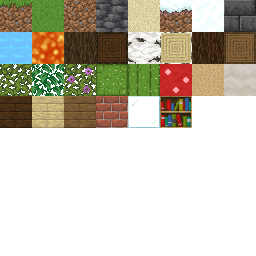
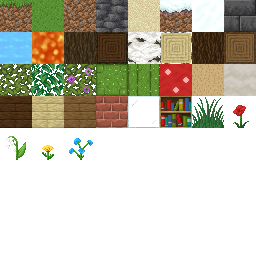
plantas

diff --git a/ProjetoTransversal/src/World/Block/BlockDatabase.cpp b/ProjetoTransversal/src/World/Block/BlockDatabase.cpp
@@ -8,31 +8,36 @@ BlockDatabase::BlockDatabase()
 {
 	//cria um bloco para cada Id de bloco
 	//						 nome			, id					, solido, translucido			, index da textura no atlas
-	m_blockData.emplace_back("Air"			, BlockId::Air			, false	, Transparency::Full	, 0);
-	m_blockData.emplace_back("Grass"		, BlockId::Grass		, true	, Transparency::Opaque	, 1, 0, 2);
-	m_blockData.emplace_back("Dirt"			, BlockId::Dirt			, true	, Transparency::Opaque	, 2);
-	m_blockData.emplace_back("Stone"		, BlockId::Stone		, true	, Transparency::Opaque	, 3);
-	m_blockData.emplace_back("Sand"			, BlockId::Sand			, true	, Transparency::Opaque	, 4);
-	m_blockData.emplace_back("SnowGrass"	, BlockId::SnowGrass	, true	, Transparency::Opaque	, 6, 5, 2);
-	m_blockData.emplace_back("Snow"			, BlockId::Snow			, true	, Transparency::Opaque	, 6);
-	m_blockData.emplace_back("StoneBrick"	, BlockId::StoneBrick	, true	, Transparency::Opaque	, 7);
-	m_blockData.emplace_back("Water"		, BlockId::Water		, false	, Transparency::Full	, 8);
-	m_blockData.emplace_back("Lava"			, BlockId::Lava			, false	, Transparency::Full	, 9);
-	m_blockData.emplace_back("DarkWood"		, BlockId::DarkWood		, true	, Transparency::Opaque	, 11, 10, 11);
-	m_blockData.emplace_back("LightWood"	, BlockId::LightWood	, true	, Transparency::Opaque	, 13, 12, 13);
-	m_blockData.emplace_back("PineWood"		, BlockId::PineWood		, true	, Transparency::Opaque	, 15, 14, 15);
-	m_blockData.emplace_back("Leaf"			, BlockId::Leaf			, true	, Transparency::Half	, 16);
-	m_blockData.emplace_back("LightLeaf"	, BlockId::LightLeaf	, true	, Transparency::Half	, 17);
-	m_blockData.emplace_back("PineLeaf"		, BlockId::PineLeaf		, true	, Transparency::Half	, 18);
-	m_blockData.emplace_back("Cactus"		, BlockId::Cactus		, true	, Transparency::Half	, 19, 20, 19);
-	m_blockData.emplace_back("Mushroom"		, BlockId::Mushroom		, true	, Transparency::Opaque	, 21);
-	m_blockData.emplace_back("MushroomStalk", BlockId::MushroomStalk, true	, Transparency::Opaque	, 23);
-	m_blockData.emplace_back("DarkPlanks"	, BlockId::DarkPlanks	, true	, Transparency::Opaque	, 24);
-	m_blockData.emplace_back("LightPlanks"	, BlockId::LightPlanks	, true	, Transparency::Opaque	, 25);
-	m_blockData.emplace_back("PinePlanks"	, BlockId::PinePlanks	, true	, Transparency::Opaque	, 26);
-	m_blockData.emplace_back("Bricks"		, BlockId::Bricks		, true	, Transparency::Opaque	, 27);
-	m_blockData.emplace_back("Glass"		, BlockId::Glass		, true	, Transparency::Full	, 28);
-	m_blockData.emplace_back("BookShelf"	, BlockId::BookShelf	, true	, Transparency::Opaque	, 26, 29, 26);
+	m_blockData.emplace_back("Air"			, BlockId::Air			, false, Transparency::Full  , false, 0);
+	m_blockData.emplace_back("GrassBlock"	, BlockId::GrassBlock	, true , Transparency::Opaque, false, 1, 0, 2);
+	m_blockData.emplace_back("Dirt"			, BlockId::Dirt			, true , Transparency::Opaque, false, 2);
+	m_blockData.emplace_back("Stone"		, BlockId::Stone		, true , Transparency::Opaque, false, 3);
+	m_blockData.emplace_back("Sand"			, BlockId::Sand			, true , Transparency::Opaque, false, 4);
+	m_blockData.emplace_back("SnowGrass"	, BlockId::SnowGrass	, true , Transparency::Opaque, false, 6, 5, 2);
+	m_blockData.emplace_back("Snow"			, BlockId::Snow			, true , Transparency::Opaque, false, 6);
+	m_blockData.emplace_back("StoneBrick"	, BlockId::StoneBrick	, true , Transparency::Opaque, false, 7);
+	m_blockData.emplace_back("Water"		, BlockId::Water		, false, Transparency::Full  , false, 8);
+	m_blockData.emplace_back("Lava"			, BlockId::Lava			, false, Transparency::Full  , false, 9);
+	m_blockData.emplace_back("DarkWood"		, BlockId::DarkWood		, true , Transparency::Opaque, false, 11, 10, 11);
+	m_blockData.emplace_back("LightWood"	, BlockId::LightWood	, true , Transparency::Opaque, false, 13, 12, 13);
+	m_blockData.emplace_back("PineWood"		, BlockId::PineWood		, true , Transparency::Opaque, false, 15, 14, 15);
+	m_blockData.emplace_back("Leaf"			, BlockId::Leaf			, true , Transparency::Half  , false, 16);
+	m_blockData.emplace_back("LightLeaf"	, BlockId::LightLeaf	, true , Transparency::Half  , false, 17);
+	m_blockData.emplace_back("PineLeaf"		, BlockId::PineLeaf		, true , Transparency::Half  , false, 18);
+	m_blockData.emplace_back("Cactus"		, BlockId::Cactus		, true , Transparency::Half  , false, 19, 20, 19);
+	m_blockData.emplace_back("Mushroom"		, BlockId::Mushroom		, true , Transparency::Opaque, false, 21);
+	m_blockData.emplace_back("MushroomStalk", BlockId::MushroomStalk, true , Transparency::Opaque, false, 23);
+	m_blockData.emplace_back("DarkPlanks"	, BlockId::DarkPlanks	, true , Transparency::Opaque, false, 24);
+	m_blockData.emplace_back("LightPlanks"	, BlockId::LightPlanks	, true , Transparency::Opaque, false, 25);
+	m_blockData.emplace_back("PinePlanks"	, BlockId::PinePlanks	, true , Transparency::Opaque, false, 26);
+	m_blockData.emplace_back("Bricks"		, BlockId::Bricks		, true , Transparency::Opaque, false, 27);
+	m_blockData.emplace_back("Glass"		, BlockId::Glass		, true , Transparency::Full  , false, 28);
+	m_blockData.emplace_back("BookShelf"	, BlockId::BookShelf	, true , Transparency::Half  , false, 26, 29, 26);
+	m_blockData.emplace_back("Grass"		, BlockId::Grass		, false, Transparency::Half  , true , 30);
+	m_blockData.emplace_back("Poppy"		, BlockId::Poppy		, false, Transparency::Half  , true , 31);
+	m_blockData.emplace_back("Lily"			, BlockId::Lily			, false, Transparency::Half  , true , 32);
+	m_blockData.emplace_back("Dandelion"	, BlockId::Dandelion	, false, Transparency::Half  , true , 33);
+	m_blockData.emplace_back("BlueOrchid"	, BlockId::BlueOrchid	, false, Transparency::Half  , true , 34);
 }
 
 const Block& BlockDatabase::GetBlockInfo(const BlockId& blockId) const

diff --git a/ProjetoTransversal/src/World/Block/Block.cpp b/ProjetoTransversal/src/World/Block/Block.cpp
@@ -6,16 +6,16 @@ namespace
 	constexpr float TEXTURE_STEP = 1.0 / TEXTURE_COUNT;
 }
 
-Block::Block(const char* name, const BlockId& blockId, const bool isSolid, Transparency isTransparent,
+Block::Block(const char* name, const BlockId& blockId, const bool isSolid, Transparency isTransparent, const bool isVegetation,
 			 const glm::vec2& topTextureCoords, const glm::vec2& sideTextureCoords, const glm::vec2& bottomTextureCoords)
-	: m_name(name), m_blockId(blockId), m_isSolid(isSolid), m_transparency(isTransparent)
+	: m_name(name), m_blockId(blockId), m_isSolid(isSolid), m_transparency(isTransparent), m_isVegetation(isVegetation)
 {
 	Generatetextures(topTextureCoords, sideTextureCoords, bottomTextureCoords);
 }
 
-Block::Block(const char* name, const BlockId& blockId, const bool isSolid, Transparency isTransparent,
+Block::Block(const char* name, const BlockId& blockId, const bool isSolid, Transparency isTransparent, const bool isVegetation,
 			 const unsigned int topTextureIndex, const unsigned int sideTextureIndex, const unsigned int bottomTextureIndex)
-	: m_name(name), m_blockId(blockId), m_isSolid(isSolid), m_transparency(isTransparent)
+	: m_name(name), m_blockId(blockId), m_isSolid(isSolid), m_transparency(isTransparent), m_isVegetation(isVegetation)
 {
 	glm::vec2 topTextureCoords = IndexToTextureCoords(topTextureIndex);
 	glm::vec2 sideTextureCoords = IndexToTextureCoords(sideTextureIndex);
@@ -24,14 +24,14 @@ Block::Block(const char* name, const BlockId& blockId, const bool isSolid, Trans
 	Generatetextures(topTextureCoords, sideTextureCoords, bottomTextureCoords);
 }
 
-Block::Block(const char* name, const BlockId& blockId, const bool isSolid, Transparency isTransparent, const glm::vec2& textureCoords)
-	: m_name(name), m_blockId(blockId), m_isSolid(isSolid), m_transparency(isTransparent)
+Block::Block(const char* name, const BlockId& blockId, const bool isSolid, Transparency isTransparent, const bool isVegetation, const glm::vec2& textureCoords)
+	: m_name(name), m_blockId(blockId), m_isSolid(isSolid), m_transparency(isTransparent), m_isVegetation(isVegetation)
 {
 	Generatetextures(textureCoords, textureCoords, textureCoords);
 }
 
-Block::Block(const char* name, const BlockId& blockId, const bool isSolid, Transparency isTransparent, const unsigned int textureIndex)
-	: m_name(name), m_blockId(blockId), m_isSolid(isSolid), m_transparency(isTransparent)
+Block::Block(const char* name, const BlockId& blockId, const bool isSolid, Transparency isTransparent, const bool isVegetation, const unsigned int textureIndex)
+	: m_name(name), m_blockId(blockId), m_isSolid(isSolid), m_transparency(isTransparent), m_isVegetation(isVegetation)
 {
 	glm::vec2 textureCoords = IndexToTextureCoords(textureIndex);
 

diff --git a/ProjetoTransversal/src/World/Block/Block.h b/ProjetoTransversal/src/World/Block/Block.h
@@ -8,7 +8,7 @@ typedef float GLfloat;
 enum class BlockId : uint8_t
 {
 	Air = 0,
-	Grass,
+	GrassBlock,
 	Dirt,
 	Stone,
 	Sand,
@@ -32,6 +32,11 @@ enum class BlockId : uint8_t
 	Bricks,
 	Glass,
 	BookShelf,
+	Grass,
+	Poppy,
+	Lily,
+	Dandelion,
+	BlueOrchid,
 
 	blockCount
 };
@@ -46,19 +51,22 @@ enum class Transparency
 class Block
 {
 public:
-	Block(const char* name, const BlockId& blockId, const bool isSolid, Transparency isTransparent,
-		  const glm::vec2& topTextureCoords, const glm::vec2& sideTextureCoords, const glm::vec2& bottomTextureCoords);
-	Block(const char* name, const BlockId& blockId, const bool isSolid, Transparency isTransparent,
-		  const unsigned int topTextureIndex, const unsigned int sideTextureIndex, const unsigned int bottomTextureIndex);
+	Block(const char* name, const BlockId& blockId, const bool isSolid, Transparency isTransparent, const bool isVegetation,
+		const glm::vec2& topTextureCoords, const glm::vec2& sideTextureCoords, const glm::vec2& bottomTextureCoords);
+	Block(const char* name, const BlockId& blockId, const bool isSolid, Transparency isTransparent, const bool isVegetation,
+		const unsigned int topTextureIndex, const unsigned int sideTextureIndex, const unsigned int bottomTextureIndex);
 
-	Block(const char* name, const BlockId& blockId, const bool isSolid, Transparency isTransparent, const glm::vec2& textureCoords);
-	Block(const char* name, const BlockId& blockId, const bool isSolid, Transparency isTransparent, const unsigned int textureIndex);
+	Block(const char* name, const BlockId& blockId, const bool isSolid, Transparency isTransparent, const bool isVegetation, 
+		const glm::vec2& textureCoords);
+	Block(const char* name, const BlockId& blockId, const bool isSolid, Transparency isTransparent, const bool isVegetation, 
+		const unsigned int textureIndex);
 
-	const bool operator = (const Block& other) const
+	const bool operator == (const Block& other) const
 	{
 		return this->m_blockId == other.m_blockId;
 	}
 	const bool IsSolid() const { return m_isSolid; };
+	const bool IsVegetation() const { return m_isVegetation; };
 
 	Transparency IsTranslucent() const { return m_transparency; };
 
@@ -80,6 +88,6 @@ private:
 	const char* m_name;
 	const BlockId m_blockId;
 	const bool m_isSolid;
+	const bool m_isVegetation;
 	Transparency m_transparency;
 };
-

diff --git a/ProjetoTransversal/src/World/Chunk/ChunkMeshBuilder.cpp b/ProjetoTransversal/src/World/Chunk/ChunkMeshBuilder.cpp
@@ -100,14 +100,21 @@ void ChunkMeshBuilder::TryToAddBlock(const BlockId& blockId, const glm::ivec3& b
 {
     const Block& block = BlockDatabase::Get().GetBlockInfo(blockId);
 
-    TryToAddFace(blockId, Face::top, block.GetTopTexture(), blockPosition, adjacentBlocks.up);
-    TryToAddFace(blockId, Face::bottom, block.GetBottomTexture(), blockPosition, adjacentBlocks.down);
+    if (block.IsVegetation())
+    {
+        m_chunkMesh->AddVegetationBlock(block.GetSideTexture(), m_chunk->GetLocation(), blockPosition);
+    }
+    else
+    {
+        TryToAddFace(blockId, Face::top, block.GetTopTexture(), blockPosition, adjacentBlocks.up);
+        TryToAddFace(blockId, Face::bottom, block.GetBottomTexture(), blockPosition, adjacentBlocks.down);
 
-    TryToAddFace(blockId, Face::left, block.GetSideTexture(), blockPosition, adjacentBlocks.left);
-    TryToAddFace(blockId, Face::right, block.GetSideTexture(), blockPosition, adjacentBlocks.right);
+        TryToAddFace(blockId, Face::left, block.GetSideTexture(), blockPosition, adjacentBlocks.left);
+        TryToAddFace(blockId, Face::right, block.GetSideTexture(), blockPosition, adjacentBlocks.right);
 
-    TryToAddFace(blockId, Face::front, block.GetSideTexture(), blockPosition, adjacentBlocks.front);
-    TryToAddFace(blockId, Face::back, block.GetSideTexture(), blockPosition, adjacentBlocks.back);
+        TryToAddFace(blockId, Face::front, block.GetSideTexture(), blockPosition, adjacentBlocks.front);
+        TryToAddFace(blockId, Face::back, block.GetSideTexture(), blockPosition, adjacentBlocks.back);
+    }
 }
 
 void ChunkMeshBuilder::TryToAddFace(const BlockId& blockId, const std::vector<GLfloat>& blockFace, const std::vector<GLfloat>& textureCoords,

diff --git a/ProjetoTransversal/src/World/Chunk/ChunkMesh.cpp b/ProjetoTransversal/src/World/Chunk/ChunkMesh.cpp
@@ -39,6 +39,60 @@ void ChunkMesh::AddBlockFace(const std::vector<GLfloat>& blockFace,
 	m_indicesCount += 4;
 }
 
+void ChunkMesh::AddVegetationBlock(const std::vector<GLfloat>& textureCoords, const glm::ivec3& chunkPosition, const glm::ivec3& blockPosition)
+{
+	const std::vector<GLfloat>& blockFace =
+	{
+		0, 0, 1,
+		1, 0, 0,
+		1, 1, 0,
+		0, 1, 1, 
+	
+		1, 0, 1,
+		0, 0, 0,
+		0, 1, 0,
+		1, 1, 1,
+		
+		1, 0, 0,
+		0, 0, 1,
+		0, 1, 1, 
+		1, 1, 0,
+	
+		0, 0, 0,
+		1, 0, 1,
+		1, 1, 1,
+		0, 1, 0,
+	};
+	//Vertex Positions
+	for (int i = 0, index = 0; i < 16; i++)
+	{
+		this->vertexPositions.push_back(blockFace[index] + chunkPosition.x * Options::chunkSize + blockPosition.x);
+		index++;
+		this->vertexPositions.push_back(blockFace[index] + chunkPosition.y * Options::chunkSize + blockPosition.y);
+		index++;
+		this->vertexPositions.push_back(blockFace[index] + chunkPosition.z * Options::chunkSize + blockPosition.z);
+		index++;
+	}
+
+	for (int i = 0; i < 4; i++)
+	{
+		//Texture coords
+		this->textureCoordinates.insert(this->textureCoordinates.end(), textureCoords.begin(), textureCoords.end());
+		//Indices
+		this->indices.insert(this->indices.end(),
+			{
+				m_indicesCount,
+				m_indicesCount + 1,
+				m_indicesCount + 2,
+
+				m_indicesCount + 2,
+				m_indicesCount + 3,
+				m_indicesCount
+			});
+		m_indicesCount += 4;
+	}
+}
+
 //Carrega a mesh para a placa de video
 void ChunkMesh::BufferMesh()
 {

diff --git a/ProjetoTransversal/src/OpenGL/VertexBufferLayout.h b/ProjetoTransversal/src/OpenGL/VertexBufferLayout.h
@@ -2,10 +2,16 @@
 #include <glad/glad.h>
 #include <vector>
 
+namespace {
+	template<typename T>
+	struct FalseStruct : std::false_type
+	{ };
+}
+
 struct VertexBufferElement
 {
 	VertexBufferElement(unsigned int type, unsigned int count, unsigned int normalized, unsigned int offset)
-		: m_type(type), m_count(count), m_normalized(normalized), m_offset(offset){}
+		: m_type(type), m_count(count), m_normalized(normalized), m_offset(offset) {}
 
 	unsigned int m_type;
 	unsigned int m_count;
@@ -16,13 +22,13 @@ struct VertexBufferElement
 class VertexBufferLayout
 {
 public:
-	VertexBufferLayout()=default;
-	~VertexBufferLayout()=default;
+	VertexBufferLayout() = default;
+	~VertexBufferLayout() = default;
 
 	template<typename T>
 	void Push(int count)
 	{
-		static_assert(false);
+		static_assert(FalseStruct<T>::value, "this function has to be implemented for desired type");
 	}
 	template<>
 	void Push<float>(int count)

diff --git a/ProjetoTransversal/src/World/Generation/WorldGen.cpp b/ProjetoTransversal/src/World/Generation/WorldGen.cpp
@@ -107,7 +107,7 @@ namespace WorldGen
 		//altitude, humidity, temperature
 		//biomes.emplace_back("ocean",			 -10,  50, temperature, BlockId::Water);
 		biomes.emplace_back("beach",			 -10,  49, temperature, BlockId::Sand);
-		biomes.emplace_back("plains",			   0,  48, temperature, BlockId::Grass);
+		biomes.emplace_back("plains",			   0,  48, temperature, BlockId::GrassBlock);
 		//biomes.emplace_back("desert",			 0, -50, temperature, BlockId::Lava);
 		biomes.emplace_back("tundra",			 0,  10, -20, BlockId::SnowGrass);
 		//biomes.emplace_back("hills",			 1,  0,  0, BlockId::Mushroom);

diff --git a/ProjetoTransversal/src/World/Chunk/ChunkMesh.h b/ProjetoTransversal/src/World/Chunk/ChunkMesh.h
@@ -15,6 +15,10 @@ public:
 					  const glm::ivec3& chunkPosition,
 					  const glm::ivec3& blockPosition);
 
+	void AddVegetationBlock(const std::vector<GLfloat>& textureCoords,
+					  const glm::ivec3& chunkPosition,
+					  const glm::ivec3& blockPosition);
+
 	void BufferMesh();
 
 	const Model& GetModel() const;
